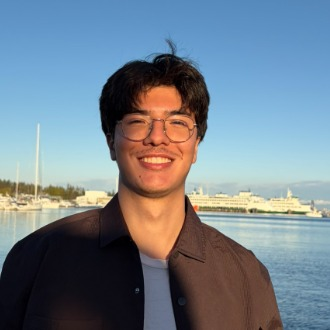
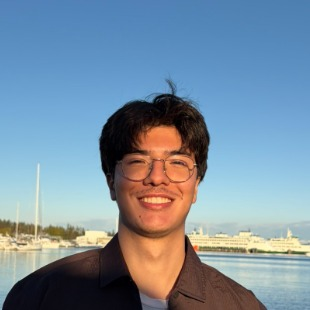
Add files via upload

diff --git a/index.html b/index.html
@@ -253,7 +253,7 @@ figcaption .fig-num{font-weight:700}
 <section id="about" class="home-section">
 <div class="container split">
 <div class="portrait">
-<img class="avatar" src="images/avatar.jpg" alt="Ryan Crane" width="330" height="330">
+<img class="avatar" src="images/avatar.jpg" alt="Ryan Crane" width="310" height="310">
 <h2>Ryan Crane</h2>
 <h3>Mechanical Engineering Student</h3>
 <h3><a href="https://www.asu.edu/" target="_blank" rel="noopener">Arizona State University</a></h3>
